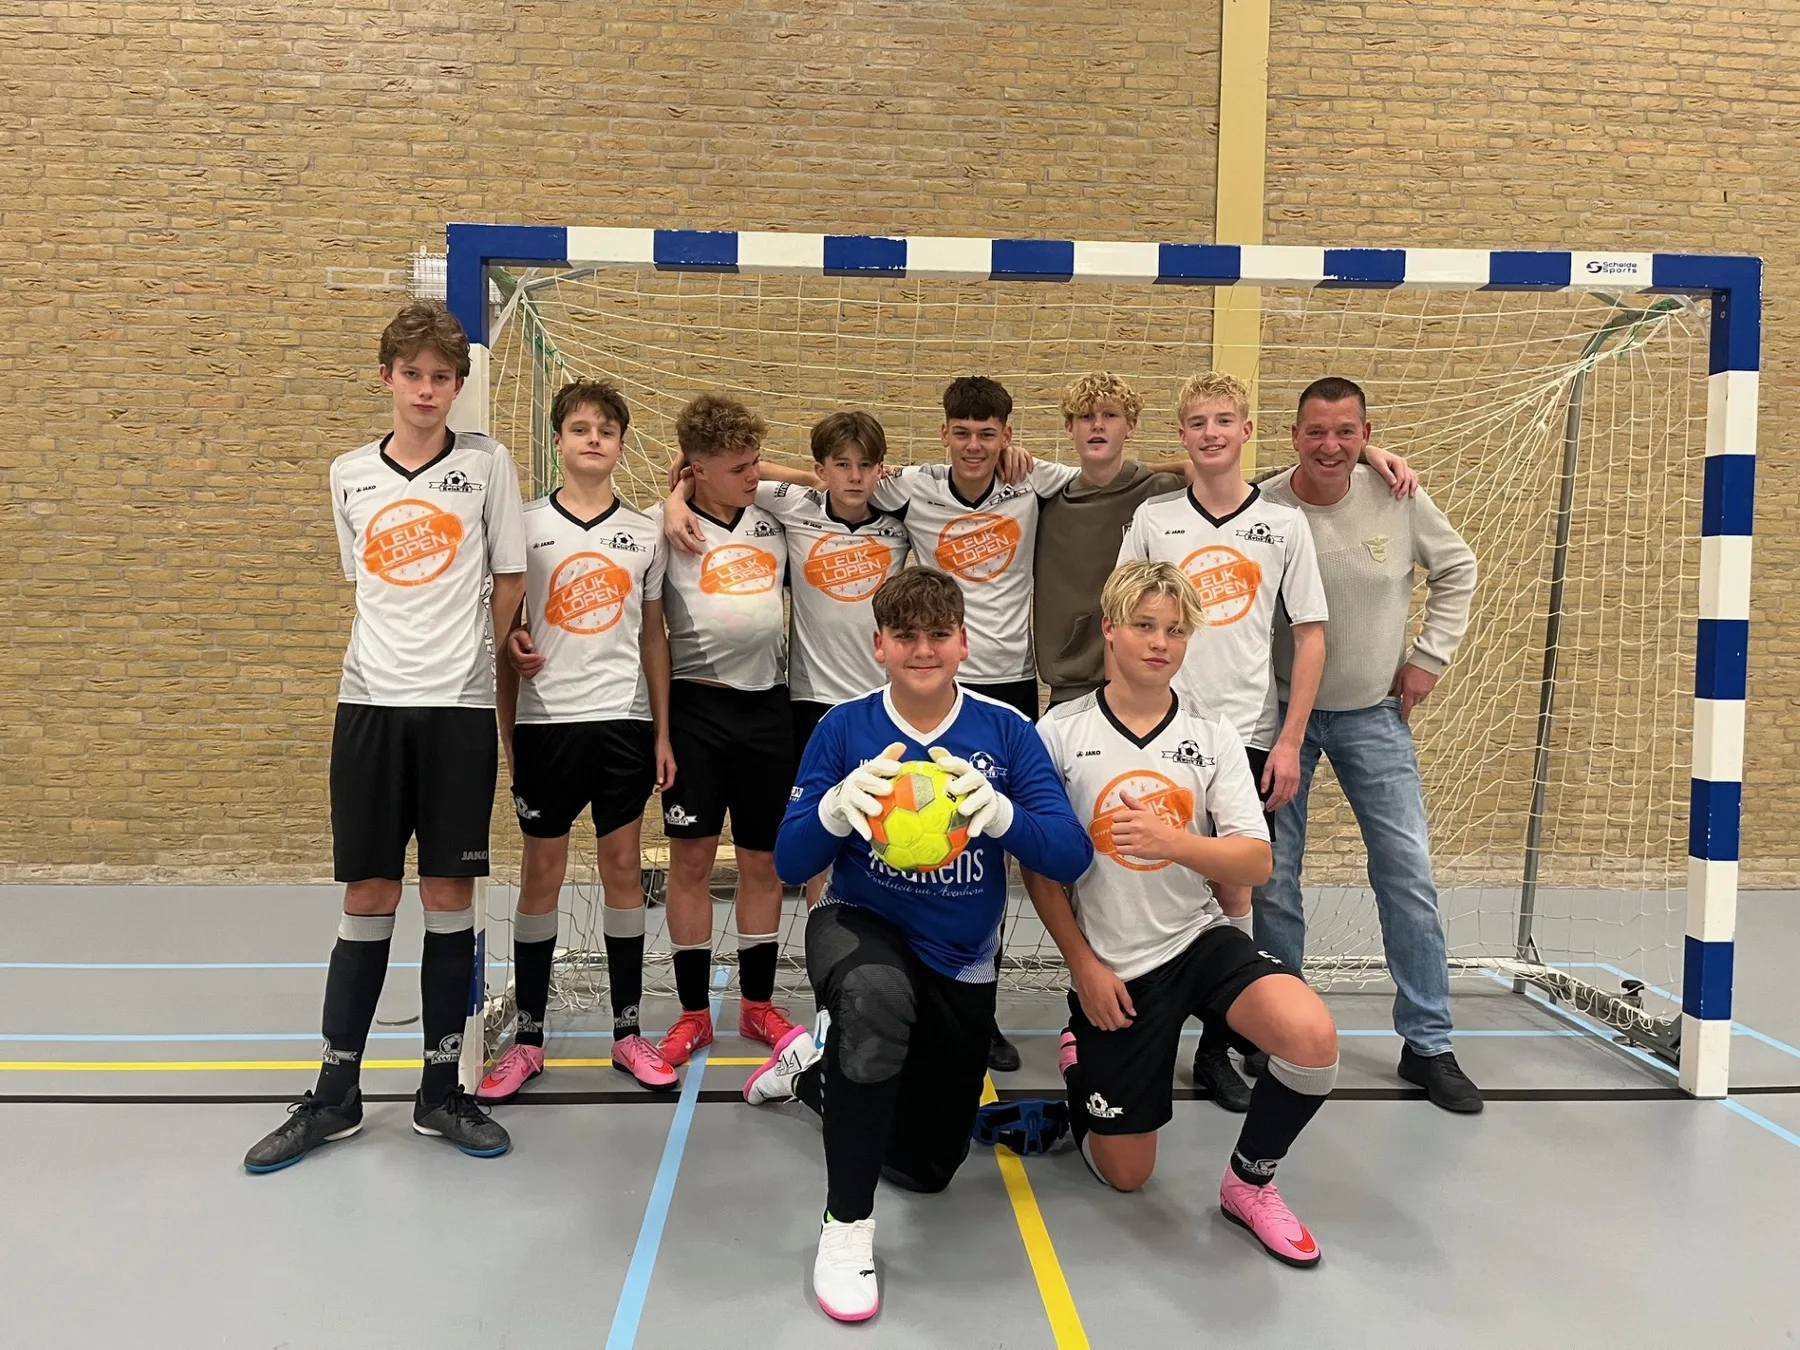
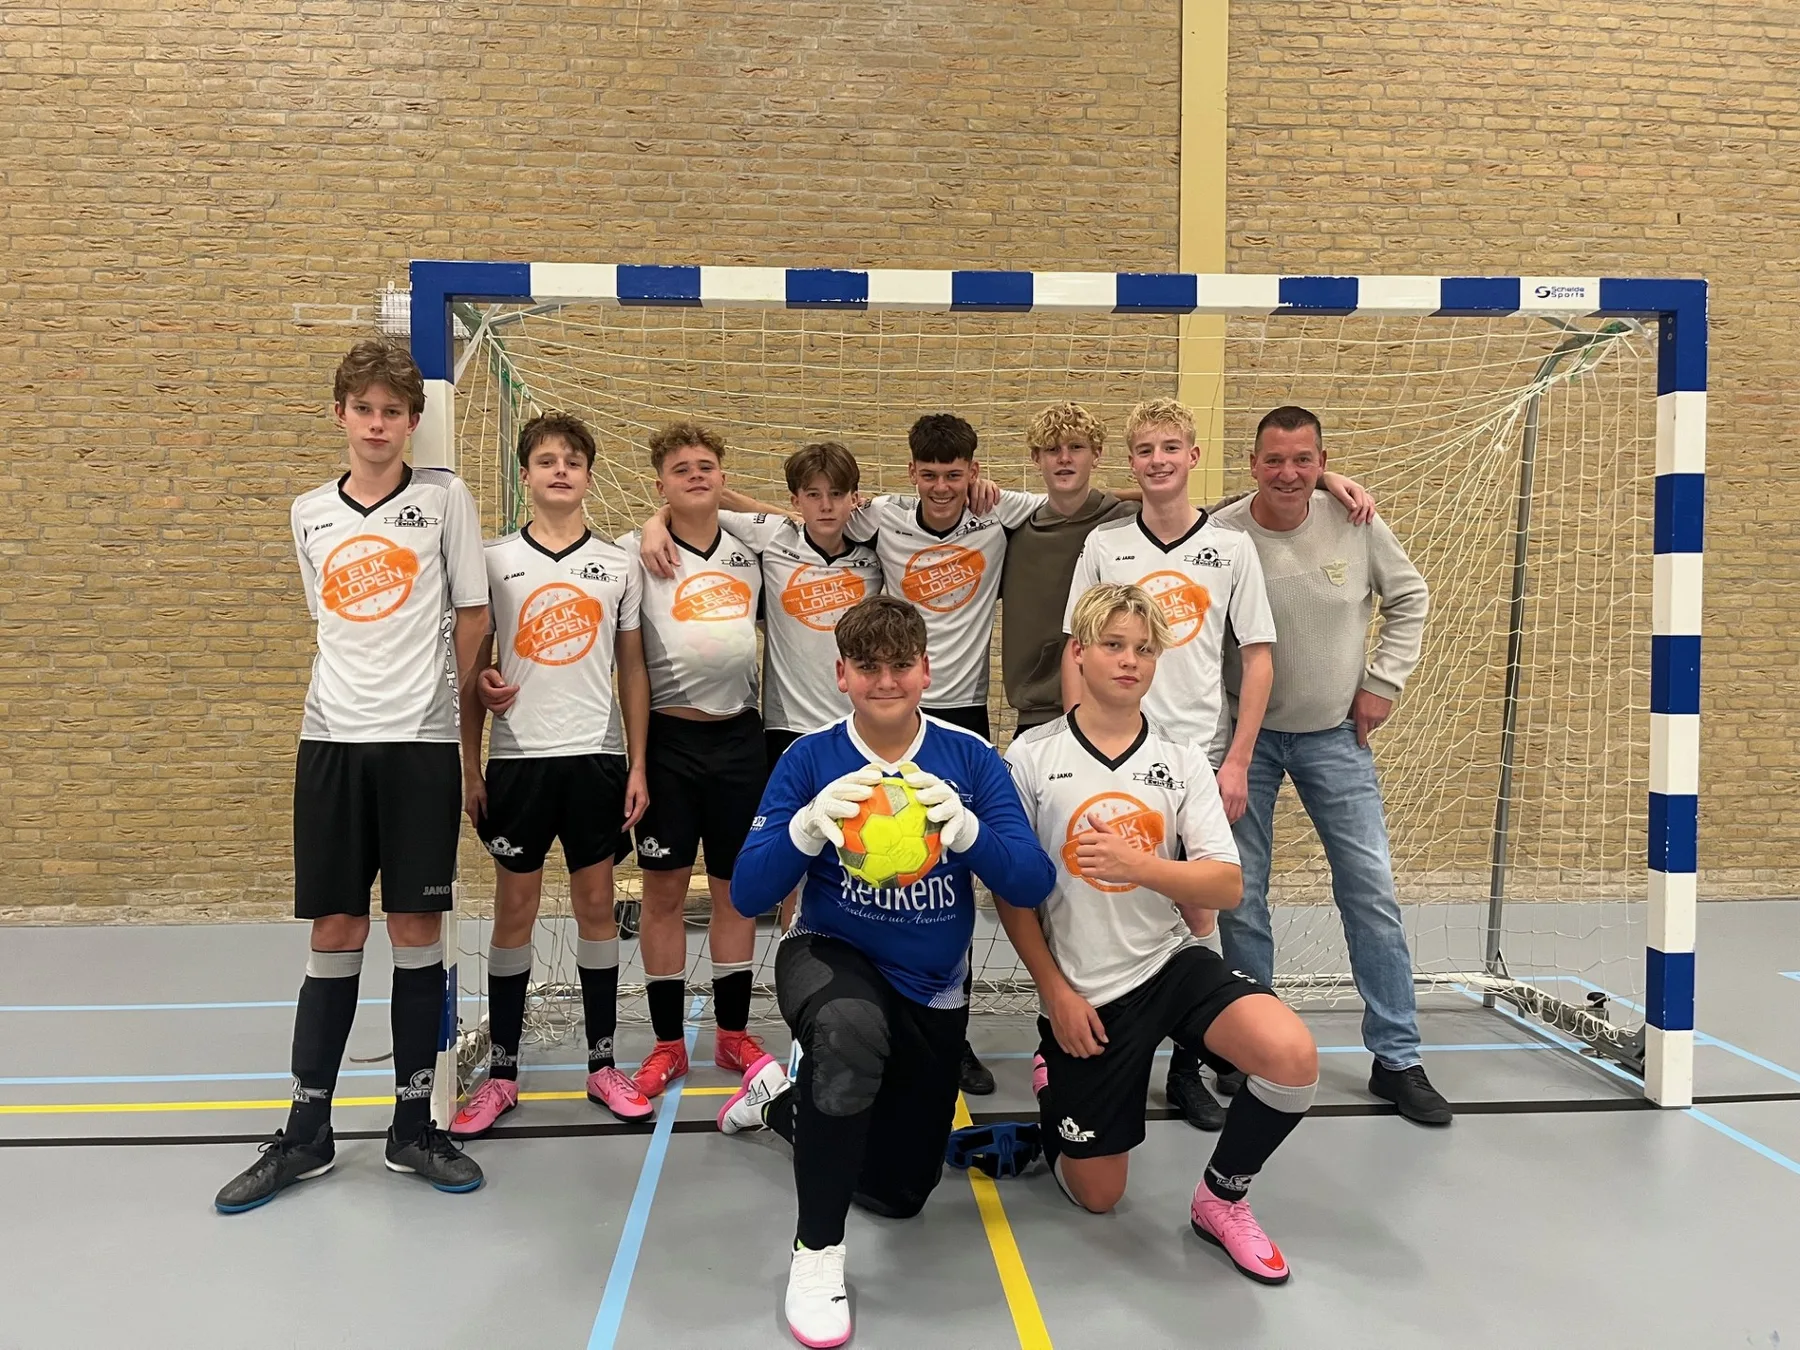
Mobiel menu opgefrist, uitklapper onder de klok, betere foto zaal O17-1
- Overlaymenu: rijen met pijl, grijze groepskoppen, alleen de huidige
  pagina in blauw; losse links onder "Meer"
- Vrijwillige diensten onder Club
- Homepage op mobiel: sponsor, locatie en knoppen onder de afteller in een
  uitklapper "Locatie en details"
- Scherpere teamfoto zaal O17-1

diff --git a/src/lib/menu.ts b/src/lib/menu.ts
@@ -80,9 +80,9 @@ export const MENU: Menu_groep[] = [
       { label: 'Verjaardagen', href: '/club/verjaardagen', omschrijving: 'Wie er binnenkort jarig is' },
       { label: 'Informatiebulletin', href: '/club/informatiebulletin', omschrijving: 'Huisregels, contributie en lidmaatschap' },
       { label: 'Ereleden', href: '/club/ereleden' },
+      { label: 'Vrijwillige diensten', href: '/vrijwillige-diensten', omschrijving: 'Het dienstenrooster van de kantine' },
     ],
   },
-  { label: 'Vrijwillige diensten', href: '/vrijwillige-diensten' },
   {
     label: 'Sponsoring',
     href: '/sponsoring',
